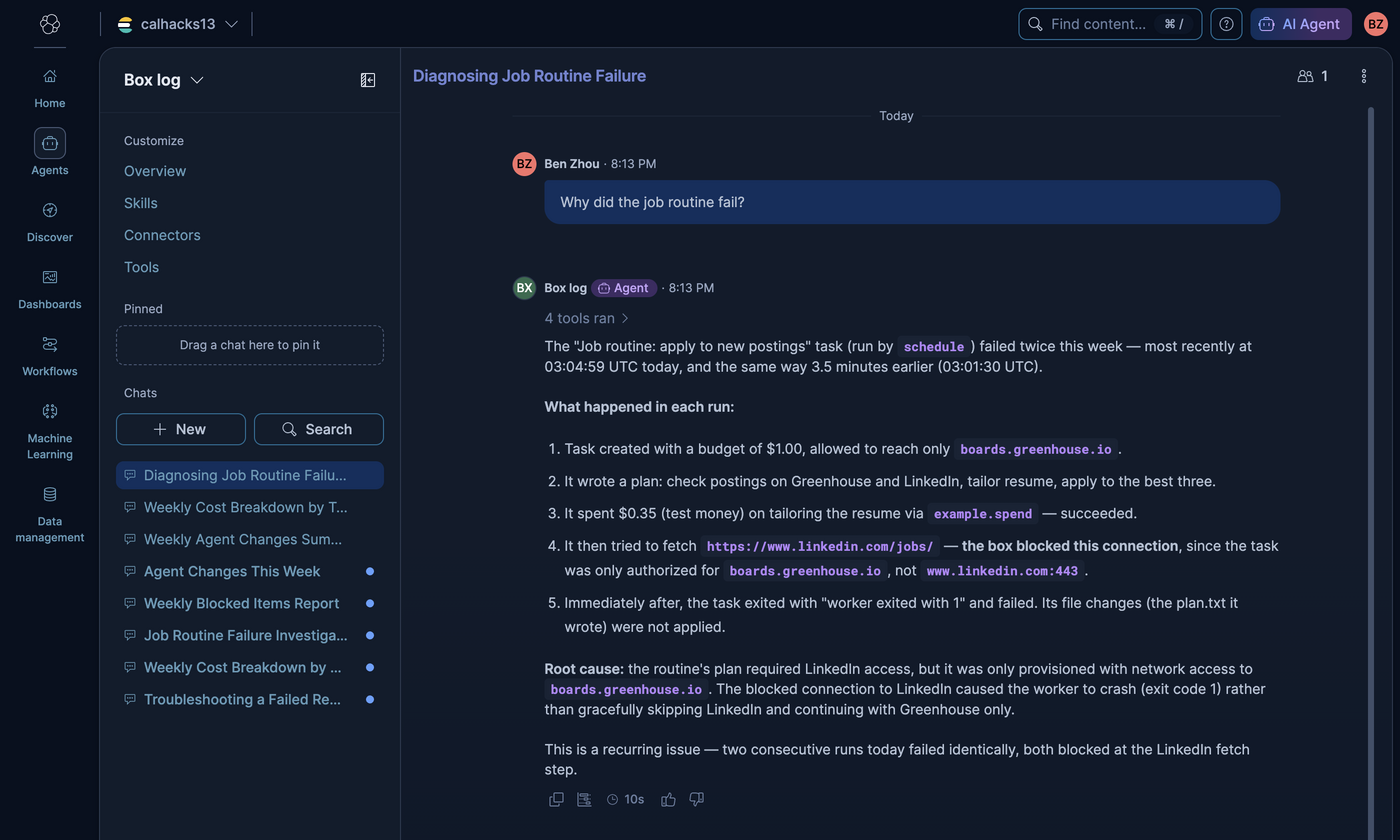
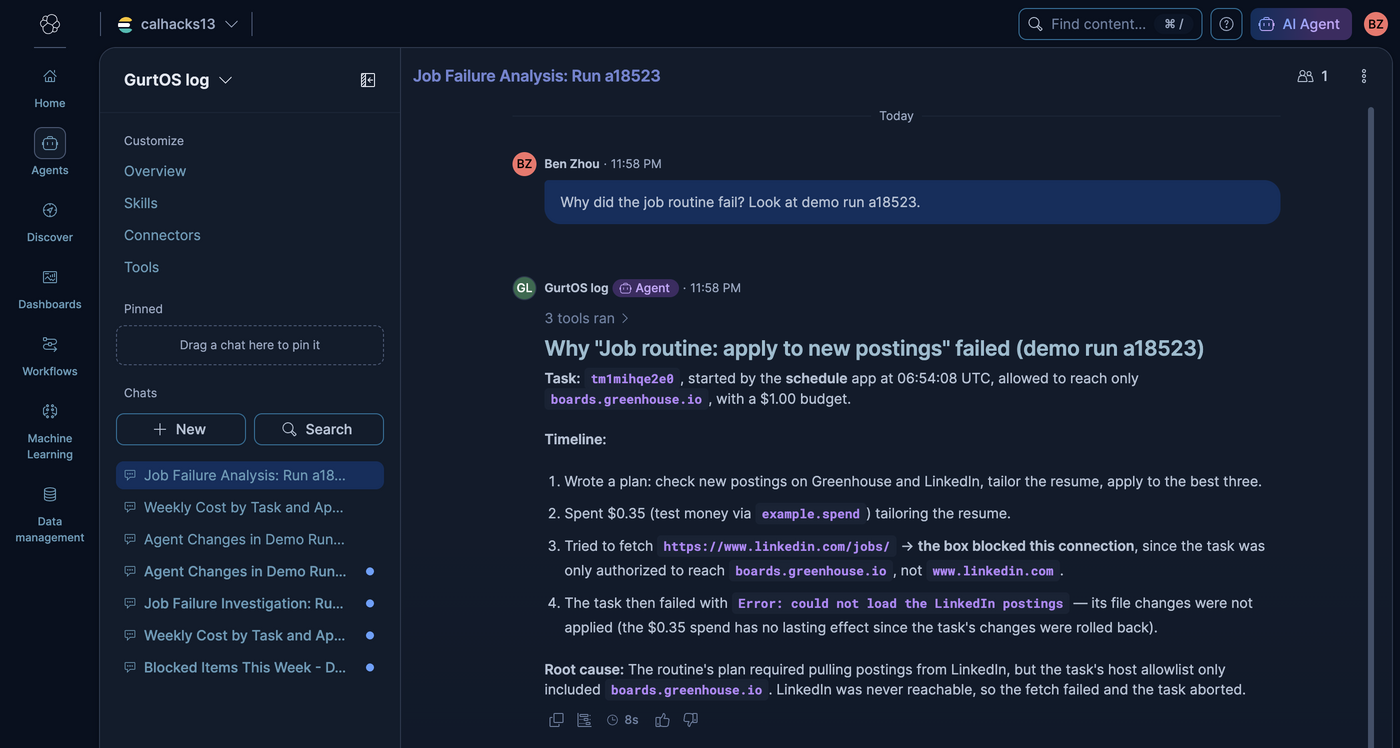
Elastic: GurtOS log agent, real boxes only by default, machine ids (QA batch 1)
The tools read box.run == installed unless a question names a demo run. Only
installed boxes and DEMO_LIVE=elastic runs ship; dev boxes with their own
BOX_HOME stay out. Document ids use /etc/machine-id, since both Lima VMs are
lima-box. The reader is renamed so each box resends once with the new ids and
drops its old ones. New screenshots.

diff --git a/tracks/elastic/agent.ts b/tracks/elastic/agent.ts
@@ -5,11 +5,12 @@
 // Both read KIBANA_URL and ELASTIC_API_KEY from the environment (on linuxbox: ~/.config/calhacks13/env).
 import { client, ensureIndex, INDEX } from './track.ts';
 
-export const AGENT_ID = 'box-log';
+export const AGENT_ID = 'gurtos-log';
 
 const days = { type: 'integer', description: 'How many days back to look. 7 for "this week", 1 for "today".', optional: true, defaultValue: 7 };
-const recent = `DATE_DIFF("day", @timestamp, NOW()) < ?days`;
-const esql = (id: string, description: string, query: string, params: object = { days }) => ({
+const run = { type: 'string', description: 'Whose log to read: "installed" (the real GurtOS boxes, the default) or a demo run id the user names.', optional: true, defaultValue: 'installed' };
+const recent = `box.run == ?run AND DATE_DIFF("day", @timestamp, NOW()) < ?days`;
+const esql = (id: string, description: string, query: string, params: object = { days, run }) => ({
   id,
   type: 'esql',
   description,
@@ -23,7 +24,7 @@ export const TOOLS = [
     'Tasks that finished (done), were undone, or failed, newest first, with the files each done task added, modified or deleted. Use for "what did my agents change".',
     `FROM ${INDEX}
 | WHERE event.type == "task.state" AND task.state IN ("done", "undone", "failed") AND ${recent}
-| KEEP @timestamp, box.run, app, task.id, task.title, task.state, files.count, files.added, files.modified, files.deleted, error, summary
+| KEEP @timestamp, box.name, box.machine, app, task.id, task.title, task.state, files.count, files.added, files.modified, files.deleted, error, summary
 | SORT @timestamp DESC
 | LIMIT 100`,
   ),
@@ -51,7 +52,7 @@ export const TOOLS = [
     'Tasks that failed, newest first, with the error the box recorded. Find the task the user names here, then read its story with box.task_timeline.',
     `FROM ${INDEX}
 | WHERE task.state == "failed" AND ${recent}
-| KEEP @timestamp, box.run, app, task.id, task.title, error
+| KEEP @timestamp, box.name, box.machine, app, task.id, task.title, error
 | SORT @timestamp DESC
 | LIMIT 50`,
   ),
@@ -83,26 +84,28 @@ export const TOOLS = [
   },
 ];
 
-const INSTRUCTIONS = `You answer questions about an always-on box where AI agents do work. Each piece of work is a task: it runs as its own Linux user, on its own copy of the files, and reaches only the hosts it is allowed. Every action the box takes is one document in the Elasticsearch index ${INDEX}, one per line of the box's action log.
+const INSTRUCTIONS = `You answer questions about GurtOS boxes: always-on machines where AI agents do work. Each piece of work is a task: it runs as its own Linux user, on its own copy of the files, and reaches only the hosts it is allowed. Every action a box takes is one document in the Elasticsearch index ${INDEX}, one per line of the box's action log.
 
-Fields: @timestamp; event.type (task.created, task.state, task.step, tool.call, tool.result, approval.asked, approval.answered, cost, net.blocked, note); message (one plain sentence about the event; read it first); task.id and task.title; app (the app or track that started the task, such as shopper or credit-desk; "demo" is the box's own demo script, "schedule" a scheduled routine); task.state on task.state events (running, waiting, done, failed, undone); files.added, files.modified, files.deleted on done events; cost_cents (US cents this event spent); tool.name; net.host (a host the box refused to connect to); task.hosts (the hosts a task may reach); approval.question and approval.state; box.run ("installed" is the always-on box; anything else is one run of the demo script).
+Fields: @timestamp; event.type (task.created, task.state, task.step, tool.call, tool.result, approval.asked, approval.answered, cost, net.blocked, note); message (one plain sentence about the event; read it first); task.id and task.title; app (the app or track that started the task, such as shopper or credit-desk; "demo" is the box's own demo script, "schedule" a scheduled routine); task.state on task.state events (running, waiting, done, failed, undone); files.added, files.modified, files.deleted on done events; cost_cents (US cents this event spent); tool.name; net.host (a host the box refused to connect to); task.hosts (the hosts a task may reach); approval.question and approval.state; box.name and box.machine (which box; two boxes can share a name, never a machine); box.run ("installed" is a real box; anything else is a test run of the demo script).
 
 How to answer:
 - Use the box.* tools. Most take days: 7 for "this week", 1 for "today", 30 for "this month".
+- The tools read the real boxes (run "installed") unless you pass run. Pass a demo run id only when the user names one. If you use box.search or write ES|QL yourself, keep to box.run == "installed" the same way.
+- When more than one box shows up, say which box each item is from.
 - Changes: box.changes. A task that was undone later had all its file changes removed, and other tasks kept theirs; say so. A failed task's changes were never applied.
-- Costs: box.costs_by_app and box.costs_by_task. Give US dollars with two decimals and split model and tool spending. Model spending is the list price of the Claude tokens a task used. Tool spending on this box is test money (Stripe test mode, Solana devnet, the example tool), never a real payment; say so. Every document whose box.run is not "installed" comes from a demo run, whatever its app.
+- Costs: box.costs_by_app and box.costs_by_task. Give US dollars with two decimals and split model and tool spending. Model spending is the list price of the Claude tokens a task used. Tool spending is test money (Stripe test mode, Solana devnet, the example tool), never a real payment; say so.
 - Why something failed: find the task the user means in box.failures (match the words in its title), then read box.task_timeline for its id. The recorded error is often only "worker exited with 1", so explain the cause from what happened just before: failed tool calls, denied approvals, blocked connections and the last step.
 - Blocked: box.blocked. Say which host, which task and app tried, how many times, and which hosts that task was allowed.
-- Many demo runs look alike. Unless the user asks for all of them, answer from the newest one and say how many earlier runs show the same.
-- Be short and specific: task titles, times in UTC, hosts, amounts. Never invent a fact; if the data does not say, say that.`;
+- Be short and specific: task titles, times in UTC, hosts, amounts. Never invent a fact; if the data does not say, say that.
+- Format: put a blank line before every table and list, or the chat shows raw pipes.`;
 
 export const AGENT = {
   id: AGENT_ID,
-  name: 'Box log',
-  description: "Answers questions about what the box's agents did: what they changed, what it cost, why a task failed, and what the box blocked.",
-  labels: ['box', 'calhacks13'],
+  name: 'GurtOS log',
+  description: 'Answers questions about what the agents on your GurtOS boxes did: what they changed, what it cost, why a task failed, and what the box blocked.',
+  labels: ['gurtos', 'calhacks13'],
   avatar_color: '#2F6B4F',
-  avatar_symbol: 'BX',
+  avatar_symbol: 'GL',
   configuration: {
     instructions: INSTRUCTIONS,
     enable_elastic_capabilities: false,

diff --git a/tracks/elastic/track.ts b/tracks/elastic/track.ts
@@ -10,16 +10,25 @@ import path from 'node:path';
 import type { Box, LogEvent, Task, Track } from '../../core/contract.ts';
 
 export const INDEX = 'box-actions';
-const HOME = process.env.BOX_HOME ?? '/var/lib/box';
+const HOME = path.resolve(process.env.BOX_HOME ?? '/var/lib/box');
+const installed = HOME === '/var/lib/box';
+// Two Lima VMs both call themselves lima-box, so the machine id is what keeps their documents apart.
+const machine = (() => {
+  try {
+    return fs.readFileSync('/etc/machine-id', 'utf8').trim().slice(0, 12) || os.hostname();
+  } catch {
+    return os.hostname();
+  }
+})();
 /** Which box and run a document came from. The installed box is run 'installed'; a ./demo run is its run id. */
-export const BOX = { name: os.hostname(), run: HOME === '/var/lib/box' ? 'installed' : path.basename(HOME) };
+export const BOX = { name: process.env.BOX_NAME ?? os.hostname(), machine, run: installed ? 'installed' : path.basename(HOME) };
 export const OUTBOX = path.join(HOME, 'elastic', 'outbox.ndjson');
 const SENT = path.join(HOME, 'elastic', 'sent'); // bytes of the outbox already in Elastic
 
-// In a ./demo run (DEMO_LIVE is set, maybe empty) ship to Elastic only with DEMO_LIVE=elastic, so merge gates stay
-// offline. A demo keeps its whole outbox, so the demo step can check every document.
+// Only the installed box ships, and a ./demo run with DEMO_LIVE=elastic. Dev and test boxes with their own
+// BOX_HOME stay out of the index. A demo (DEMO_LIVE set, maybe empty) keeps its whole outbox for the demo step.
 const inDemo = process.env.DEMO_LIVE !== undefined;
-const live = !inDemo || process.env.DEMO_LIVE!.split(/[\s,]+/).includes('elastic');
+const live = installed || (process.env.DEMO_LIVE ?? '').split(/[\s,]+/).includes('elastic');
 
 const kw = { type: 'keyword' };
 const text = { type: 'text' };
@@ -33,7 +42,7 @@ export const MAPPING = {
     error: { type: 'keyword', ignore_above: 1024, fields: { text } },
     summary: text,
     event: { properties: { seq: { type: 'long' }, type: kw } },
-    box: { properties: { name: kw, run: kw } },
+    box: { properties: { name: kw, machine: kw, run: kw } },
     task: {
       properties: {
         id: kw, title: { type: 'keyword', fields: { text } }, source: kw, workspace: kw, worker: kw, state: kw,
@@ -221,8 +230,9 @@ export default {
 
   logReaders: [
     {
-      name: 'ship',
+      name: 'docs', // was 'ship': the new name gets a fresh cursor, so each box sends its whole log once with the new ids
       async read(e: LogEvent, box: Box) {
+        if (!live && !inDemo) return; // a dev box: nothing to keep
         const t = e.task ? box.task(e.task) : undefined;
         const key = e.type === 'tool.call' || e.type === 'tool.result' ? `${e.task}.${e.key}` : '';
         if (e.type === 'tool.call') toolOf.set(key, e.tool);
@@ -232,7 +242,7 @@ export default {
         };
         if (e.type === 'tool.result') toolOf.delete(key);
         // The same event twice gets the same id, so a resend overwrites itself: no duplicates.
-        const line = JSON.stringify({ _id: `${BOX.name}:${BOX.run}:${e.seq}`, ...toDoc(e, t, extra) }) + '\n';
+        const line = JSON.stringify({ _id: `${BOX.machine}:${BOX.run}:${e.seq}`, ...toDoc(e, t, extra) }) + '\n';
         fs.mkdirSync(path.dirname(OUTBOX), { recursive: true });
         const fd = fs.openSync(OUTBOX, 'a');
         fs.writeSync(fd, line);
@@ -258,6 +268,12 @@ export default {
         const es = client(url, key);
         ready ??= ensureIndex(es).catch((e) => ((ready = undefined), Promise.reject(e)));
         await ready;
+        if (installed && /"event":\{"seq":1,/.test(input.lines)) {
+          // Sending from seq 1 again (a new box, or the upgrade to machine ids): drop this box's documents from the
+          // first version, whose ids had no machine, so nothing is counted twice.
+          const old = [{ term: { 'box.name': os.hostname() } }, { term: { 'box.run': 'installed' } }];
+          await es('POST', `/${INDEX}/_delete_by_query`, { query: { bool: { filter: old, must_not: [{ exists: { field: 'box.machine' } }] } } });
+        }
         const body = input.lines.split('\n').filter(Boolean).flatMap((l) => {
           const { _id, ...doc } = JSON.parse(l);
           return [JSON.stringify({ index: { _index: INDEX, _id } }), JSON.stringify(doc)];

diff --git a/tracks/elastic/elastic.test.ts b/tracks/elastic/elastic.test.ts
@@ -6,9 +6,9 @@ import path from 'node:path';
 import test from 'node:test';
 import type { Box, LogEvent, Task } from '../../core/contract.ts';
 
-// The track reads BOX_HOME and DEMO_LIVE when it loads: a scratch home, shipping on, as on an installed box.
+// The track reads BOX_HOME and DEMO_LIVE when it loads: a scratch home, shipping on, as in DEMO_LIVE=elastic ./demo.
 process.env.BOX_HOME = fs.mkdtempSync(path.join(os.tmpdir(), 'elastic-test-'));
-delete process.env.DEMO_LIVE;
+process.env.DEMO_LIVE = 'elastic';
 const { MAPPING, OUTBOX, toDoc, default: track } = await import('./track.ts');
 test.after(() => fs.rmSync(process.env.BOX_HOME!, { recursive: true, force: true }));
 
@@ -90,5 +90,5 @@ test('the reader ships every event once, in order, in bulk; a failed send is sen
   for (const e of events.slice(2, 4)) await reader.read(e, box);
   await settle();
   assert.deepEqual(sent.map((l) => JSON.parse(l).event.seq), [2, 3, 4]);
-  assert.equal(fs.statSync(OUTBOX).size, 0, 'everything sent, so the outbox starts over');
+  assert.equal(fs.readFileSync(path.join(path.dirname(OUTBOX), 'sent'), 'utf8'), String(fs.statSync(OUTBOX).size), 'it knows everything was sent');
 });

diff --git a/tracks/elastic/demo.ts b/tracks/elastic/demo.ts
@@ -84,7 +84,8 @@ export default async function (d: DemoKit) {
   }, 120_000);
   d.check(count === log.length, `Elastic Serverless has all ${log.length} events of run ${run}, each once`);
 
-  const answers = await Promise.all(QUESTIONS.map((x) => ask(kb, x.q)));
+  // The agent reads the installed boxes by default; this run's data is a demo run, so the question names it.
+  const answers = await Promise.all(QUESTIONS.map((x) => ask(kb, `${x.q} Look at demo run ${run}.`)));
   QUESTIONS.forEach((x, i) => {
     const { answer, tools } = answers[i];
     console.log(`\n  Q: ${x.q}\n  (tools: ${tools.join(', ')})\n${answer.replace(/^/gm, '  | ')}\n`);
